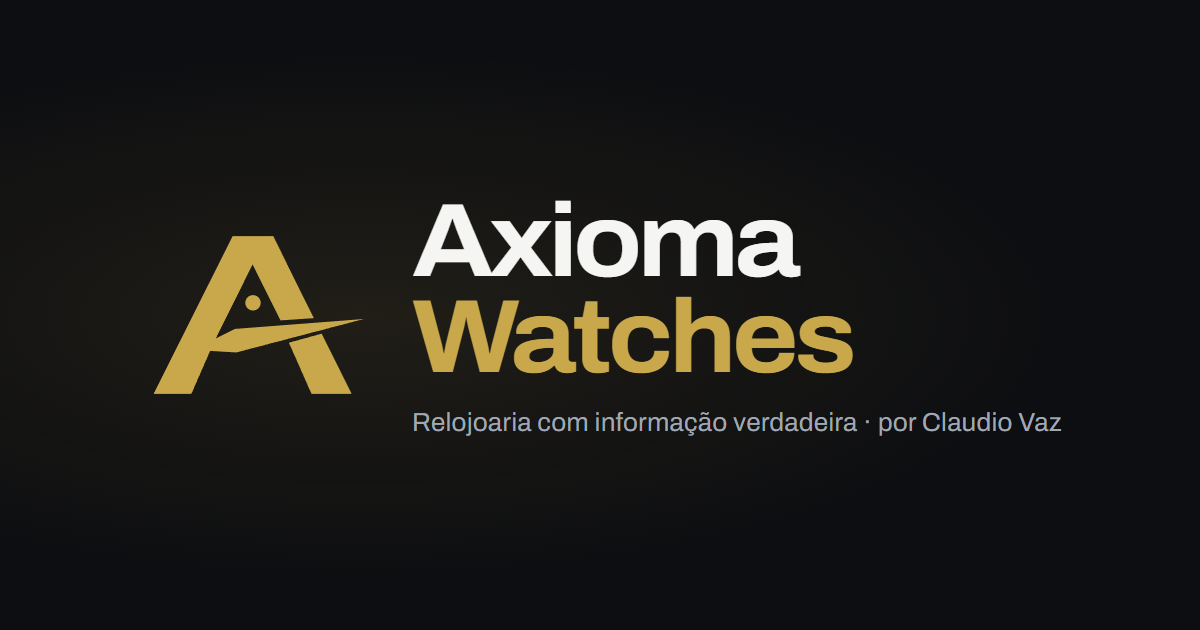
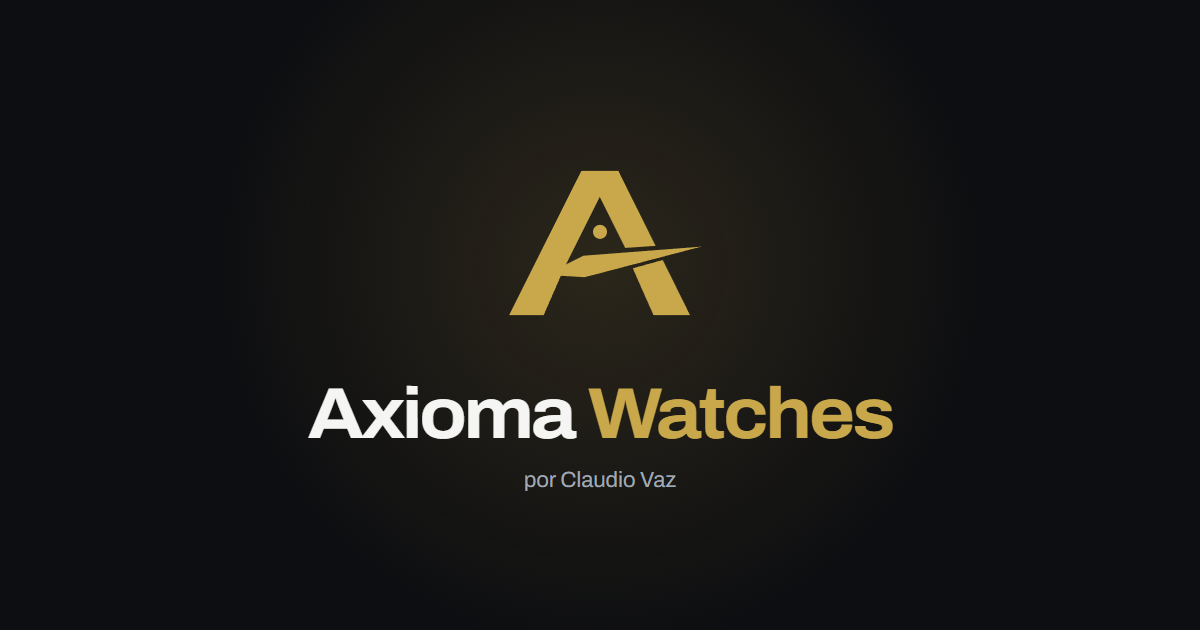
[FIX] Imagem de compartilhamento centralizada (miniatura do WhatsApp) e cache renovado

Changed region(s): [[0.1233, 0.2714, 0.8942, 0.6937], [0.4317, 0.754, 0.5858, 0.7841]]

diff --git a/index.html b/index.html
@@ -26,11 +26,14 @@
     <meta property="og:title" content="Axioma Watches" />
     <meta property="og:description" content="Canal de relojoaria quartz e mecânica automática por Claudio Vaz. Informação verdadeira sobre relógios." />
     <meta property="og:locale" content="pt_BR" />
-    <meta property="og:image" content="https://axiomawatches.com.br/og-cover.png" />
+    <!-- ?v=2: o WhatsApp guarda a imagem antiga em cache; mudar o endereço força a nova -->
+    <meta property="og:image" content="https://axiomawatches.com.br/og-cover.png?v=2" />
+    <meta property="og:image:width" content="1200" />
+    <meta property="og:image:height" content="630" />
     <meta name="twitter:card" content="summary_large_image" />
     <meta name="twitter:title" content="Axioma Watches" />
     <meta name="twitter:description" content="Canal de relojoaria quartz e mecânica automática por Claudio Vaz. Informação verdadeira sobre relógios." />
-    <meta name="twitter:image" content="https://axiomawatches.com.br/og-cover.png" />
+    <meta name="twitter:image" content="https://axiomawatches.com.br/og-cover.png?v=2" />
 
     <link rel="preload" as="image" href="/hero-bg-soft.jpg" fetchpriority="high" />
     <link rel="preconnect" href="https://fonts.googleapis.com" />
